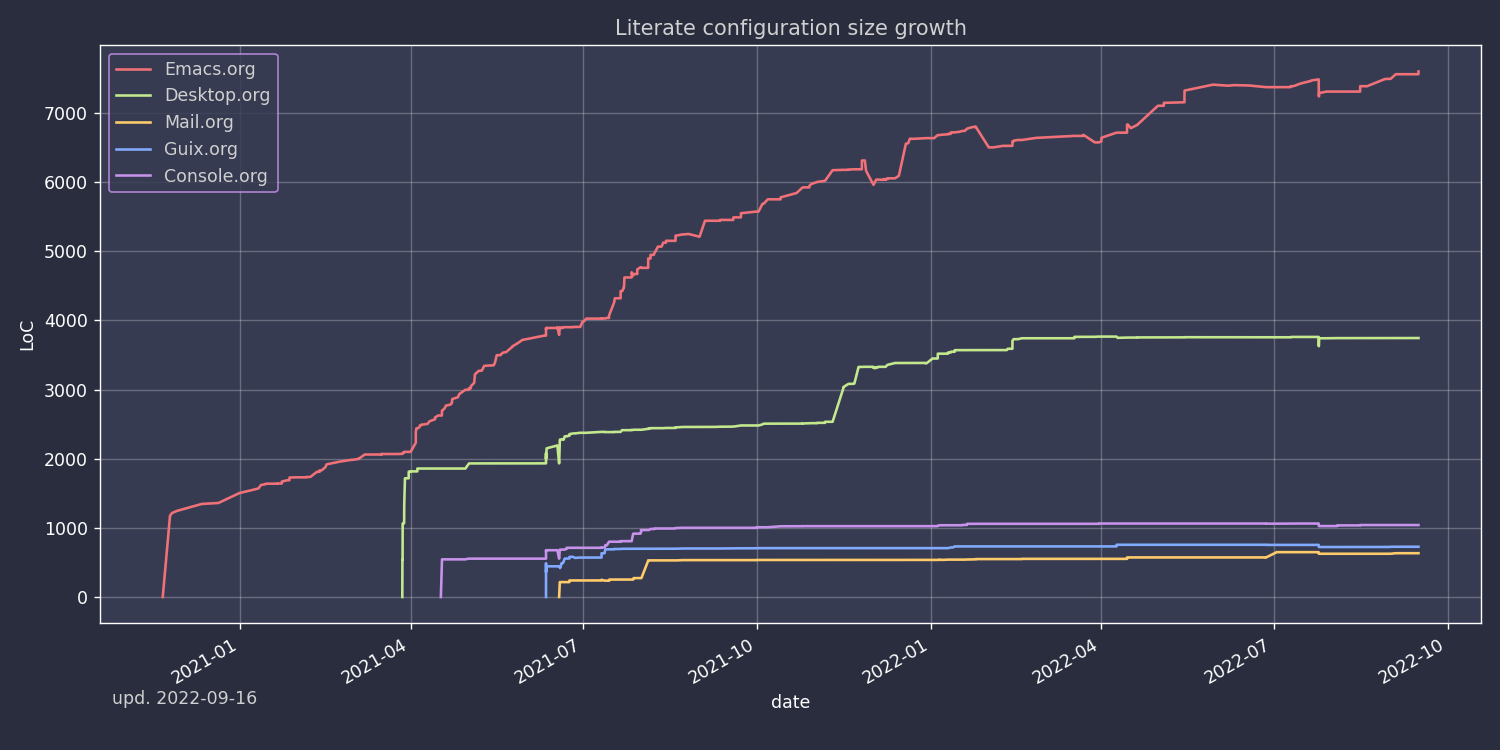
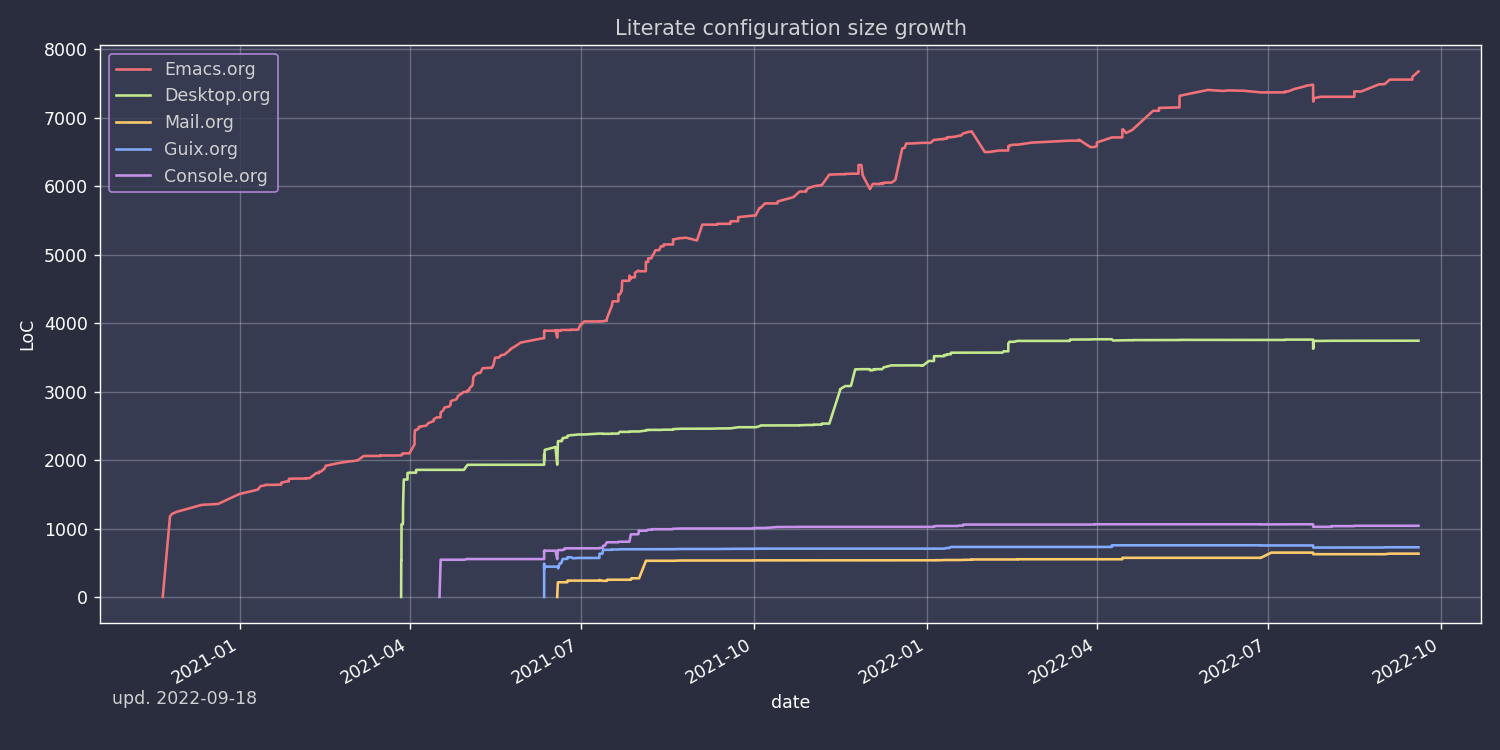
deploy: e58d4a810ca31bb510986d731bbe04232ddb9179

diff --git a/configs/emacs/index.html b/configs/emacs/index.html
@@ -3509,7 +3509,7 @@ Emacs is also particularly good at writing Lisp code, e.g. Clojure, Common Lisp,
 </span></span><span style="display:flex;"><span>	    <span style="color:#666">,@</span><span style="color:#19177c">project-files</span>))
 </span></span><span style="display:flex;"><span>    (<span style="color:#008000">setq</span> <span style="color:#19177c">org-refile-targets</span>
 </span></span><span style="display:flex;"><span>	  <span style="color:#666">`</span>(<span style="color:#666">,@</span>(<span style="color:#00f">mapcar</span>
-</span></span><span style="display:flex;"><span>	       (<span style="color:#008000">lambda</span> (<span style="color:#19177c">f</span>) <span style="color:#666">`</span>(<span style="color:#666">,</span><span style="color:#19177c">f</span> <span style="color:#666">.</span> (<span style="color:#008000">:level</span> <span style="color:#666">.</span> <span style="color:#666">1</span>)))
+</span></span><span style="display:flex;"><span>	       (<span style="color:#008000">lambda</span> (<span style="color:#19177c">f</span>) <span style="color:#666">`</span>(<span style="color:#666">,</span><span style="color:#19177c">f</span> <span style="color:#666">.</span> (<span style="color:#008000">:level</span> <span style="color:#666">.</span> <span style="color:#666">2</span>)))
 </span></span><span style="display:flex;"><span>	       <span style="color:#19177c">project-files</span>)
 </span></span><span style="display:flex;"><span>	    <span style="color:#666">,@</span>(<span style="color:#00f">mapcar</span>
 </span></span><span style="display:flex;"><span>	       (<span style="color:#008000">lambda</span> (<span style="color:#19177c">f</span>) <span style="color:#666">`</span>(<span style="color:#666">,</span><span style="color:#19177c">f</span> <span style="color:#666">.</span> (<span style="color:#008000">:tag</span> <span style="color:#666">.</span> <span style="color:#ba2121">&#34;refile&#34;</span>)))
@@ -3612,7 +3612,7 @@ Emacs is also particularly good at writing Lisp code, e.g. Clojure, Common Lisp,
 </span></span><span style="display:flex;"><span>	(<span style="color:#00f">format-time-string</span> <span style="color:#ba2121">&#34;%Y-%m-%d&#34;</span> <span style="color:#19177c">scheduled</span>)
 </span></span><span style="display:flex;"><span>      <span style="color:#ba2121">&#34;&#34;</span>)))
 </span></span><span style="display:flex;"><span>
-</span></span><span style="display:flex;"><span>(<span style="color:#008000">setq</span> <span style="color:#19177c">org-agenda-hide-tags-regexp</span> (<span style="color:#008000">rx</span> (<span style="color:#008000">or</span> <span style="color:#ba2121">&#34;org&#34;</span> <span style="color:#ba2121">&#34;log&#34;</span> <span style="color:#ba2121">&#34;log_here&#34;</span>)))
+</span></span><span style="display:flex;"><span>(<span style="color:#008000">setq</span> <span style="color:#19177c">org-agenda-hide-tags-regexp</span> (<span style="color:#008000">rx</span> (<span style="color:#008000">or</span> <span style="color:#ba2121">&#34;org&#34;</span> <span style="color:#ba2121">&#34;log&#34;</span> <span style="color:#ba2121">&#34;log_here&#34;</span> <span style="color:#ba2121">&#34;refile&#34;</span>)))
 </span></span><span style="display:flex;"><span>
 </span></span><span style="display:flex;"><span>(<span style="color:#008000">setq</span> <span style="color:#19177c">org-agenda-custom-commands</span>
 </span></span><span style="display:flex;"><span>      <span style="color:#666">`</span>((<span style="color:#ba2121">&#34;p&#34;</span> <span style="color:#ba2121">&#34;My outline&#34;</span>
@@ -5698,16 +5698,31 @@ Emacs is also particularly good at writing Lisp code, e.g. Clojure, Common Lisp,
 </span></span><span style="display:flex;"><span>  (<span style="color:#19177c">subed-mpv--play</span> <span style="color:#19177c">subed-mpv-video-file</span>))
 </span></span></code></pre></div><p>Keep in mind that this function has to be launched inside the buffer opened by the <code>my/elfeed-youtube-subtitles</code> function.</p>
 <h4 id="podcast-transcripts">Podcast transcripts</h4>
-<p>Occasionally I want to have a text version of a podcast, for instance to take some notes.</p>
-<p>In order do do that, I&rsquo;ve made a <a href="https://github.com/SqrtMinusOne/podcasts-vosk">small script</a> that uses the <a href="https://alphacephei.com/vosk/">Vosk speech recognition toolkit</a> to extract subtitles from an audio file. Here&rsquo;s a function to invoke that script.</p>
+<p>In my experience, finding something in a podcast is particularly troublesome. For example, occasionally I want to refer to some line in the podcast to make an <a href="https://github.com/org-roam/org-roam">org-roam</a> node, e.g. I want to check that I got that part right.</p>
+<p>And I have no reasonable way to get there because audio files in themselves don&rsquo;t allow for <a href="https://en.wikipedia.org/wiki/Random_access">random access</a>, i.e. there are no &ldquo;landmarks&rdquo; that point to this or that portion of the file. At least if nothing like a transcript is available.</p>
+<p>For obvious reasons, podcasts rarely ship with transcripts. So in this post, I&rsquo;ll be using a speech recognition engine to make up for that. A generated transcript is not quite as good as a manually written one, but for the purpose of finding a fragment of a known podcast, it works well enough.</p>
+<p>The general idea is to get the podcast info from <a href="https://github.com/skeeto/elfeed">elfeed</a>, process it with <a href="https://github.com/alphacep/vosk-api">vosk-api</a> and feed it to <a href="https://github.com/sachac/subed">subed</a> to control the playback in <a href="https://mpv.io/">MPV</a>.</p>
+<h5 id="vosk-api">Vosk API</h5>
+<p>After some search, I found <a href="https://github.com/alphacep/vosk-api">Vosk API</a>, an offline speech recognition toolkit.</p>
+<p>I want to make a program that receives an audio file and outputs an <a href="https://en.wikipedia.org/wiki/SubRip">SRT</a> file. Vosk provides bindings to different languages, of which I choose Python because&hellip; reasons.</p>
+<p>So, with the help of kindly provided <a href="https://github.com/alphacep/vosk-api/tree/master/python/example">examples</a> of how to use the Python API, the resulting script is <a href="https://github.com/SqrtMinusOne/podcasts-vosk">available here</a>. Except Vosk, the script uses <a href="https://click.palletsprojects.com/en/8.1.x/">click</a> to make a simple CLI, a library aptly called <a href="https://github.com/cdown/srt">srt</a> to make srt files, and <a href="https://ffmpeg.org/">ffmpeg</a>.</p>
+<p>Another piece we need is a speech recognition model, some of which you can download <a href="https://alphacephei.com/vosk/models">on their website</a>. I chose a small English model called <code>vosk-model-small-en-us-0.15</code> because all my podcasts are in English and also because larger models are much slower.</p>
+<p>Now that we have the script and the model, we need to create a virtual environment. Somehow I couldn&rsquo;t install the <code>vosk</code> package with <a href="https://docs.conda.io/en/latest/">conda</a>, but the Guix version of Python with <code>virtualenv</code> worked just fine:</p>
+<div class="highlight"><pre tabindex="0" style=";-moz-tab-size:4;-o-tab-size:4;tab-size:4;"><code class="language-bash" data-lang="bash"><span style="display:flex;"><span>python3 -m virtualenv venv
+</span></span><span style="display:flex;"><span><span style="color:#008000">source</span> venv/bin/activate
+</span></span><span style="display:flex;"><span>pip install -r requirements.txt
+</span></span></code></pre></div><p>After which the script can be used as follows:</p>
+<div class="highlight"><pre tabindex="0" style=";-moz-tab-size:4;-o-tab-size:4;tab-size:4;"><code class="language-bash" data-lang="bash"><span style="display:flex;"><span>python main.py --file-path &lt;path-to-file&gt; --model-path ./model-small --save-path &lt;path-to-subtitles-file&gt;.srt
+</span></span></code></pre></div><h5 id="running-it-from-emacs">Running it from Emacs</h5>
+<p>The next step is to run the script from Emacs. This is rather straightforward to do with <a href="https://www.gnu.org/software/emacs/manual/html_node/elisp/Asynchronous-Processes.html">asyncronous processes</a>.</p>
 <div class="highlight"><pre tabindex="0" style=";-moz-tab-size:4;-o-tab-size:4;tab-size:4;"><code class="language-emacs-lisp" data-lang="emacs-lisp"><span style="display:flex;"><span>(<span style="color:#008000">defvar</span> <span style="color:#19177c">my/vosk-script-path</span>
 </span></span><span style="display:flex;"><span>  <span style="color:#ba2121">&#34;/home/pavel/Code/system-crafting/podcasts-vosk/&#34;</span>
 </span></span><span style="display:flex;"><span>  <span style="color:#ba2121">&#34;Path to the </span><span style="color:#19177c">`podcasts-vosk&#39;</span><span style="color:#ba2121"> script folder.&#34;</span>)
 </span></span><span style="display:flex;"><span>
 </span></span><span style="display:flex;"><span>(<span style="color:#008000">defun</span> <span style="color:#19177c">my/invoke-vosk</span> (<span style="color:#19177c">input</span> <span style="color:#19177c">output</span>)
-</span></span><span style="display:flex;"><span>  <span style="color:#ba2121">&#34;Extract subtitles from audio file.
+</span></span><span style="display:flex;"><span>  <span style="color:#ba2121">&#34;Extract subtitles from the audio file.
 </span></span></span><span style="display:flex;"><span><span style="color:#ba2121">
-</span></span></span><span style="display:flex;"><span><span style="color:#ba2121">INPUT is the audio file, OUTPUT is the part to the resulting SRT file.&#34;</span>
+</span></span></span><span style="display:flex;"><span><span style="color:#ba2121">INPUT is the audio file, OUTPUT is the path to the resulting SRT file.&#34;</span>
 </span></span><span style="display:flex;"><span>  (<span style="color:#008000">interactive</span>
 </span></span><span style="display:flex;"><span>   (<span style="color:#00f">list</span>
 </span></span><span style="display:flex;"><span>    (<span style="color:#19177c">read-file-name</span> <span style="color:#ba2121">&#34;Input file: &#34;</span> <span style="color:#800">nil</span> <span style="color:#800">nil</span> <span style="color:#800">t</span>)
@@ -5733,7 +5748,11 @@ Emacs is also particularly good at writing Lisp code, e.g. Clojure, Common Lisp,
 </span></span><span style="display:flex;"><span>			     (<span style="color:#00f">buffer-string</span>))))
 </span></span><span style="display:flex;"><span>		  (<span style="color:#00f">kill-buffer</span> (<span style="color:#00f">process-buffer</span> <span style="color:#19177c">process</span>))
 </span></span><span style="display:flex;"><span>		  (<span style="color:#d2413a;font-weight:bold">user-error</span> <span style="color:#ba2121">&#34;Error in Vosk API: %s&#34;</span> <span style="color:#19177c">err</span>)))))))))
-</span></span></code></pre></div><p>In order to use that, we need to download the file first. So here&rsquo;s a function that extracts the file name from the URL:</p>
+</span></span></code></pre></div><p>If run interactively, the defined function prompts for paths to both files.</p>
+<p>The process sentinel sends a <a href="https://www.gnu.org/software/emacs/manual/html_node/elisp/Desktop-Notifications.html">desktop notification</a> because it&rsquo;s a bit more noticeable than <code>message</code>, and the process is expected to take some time.</p>
+<h5 id="integrating-with-elfeed">Integrating with elfeed</h5>
+<p>To actually run the function from the section above, we need to download the file in question.</p>
+<p>So first, let&rsquo;s extract the file name from the URL:</p>
 <div class="highlight"><pre tabindex="0" style=";-moz-tab-size:4;-o-tab-size:4;tab-size:4;"><code class="language-emacs-lisp" data-lang="emacs-lisp"><span style="display:flex;"><span>(<span style="color:#008000">defun</span> <span style="color:#19177c">my/get-file-name-from-url</span> (<span style="color:#19177c">url</span>)
 </span></span><span style="display:flex;"><span>  <span style="color:#ba2121">&#34;Extract file name from the URL.&#34;</span>
 </span></span><span style="display:flex;"><span>  (<span style="color:#00f">string-match</span> (<span style="color:#008000">rx</span> <span style="color:#ba2121">&#34;/&#34;</span> (<span style="color:#00f">+</span> (<span style="color:#19177c">not</span> <span style="color:#ba2121">&#34;/&#34;</span>)) (<span style="color:#ba2121">? </span><span style="color:#ba2121">&#34;/&#34;</span>) <span style="color:#19177c">eos</span>) <span style="color:#19177c">url</span>)
@@ -5746,7 +5765,8 @@ Emacs is also particularly good at writing Lisp code, e.g. Clojure, Common Lisp,
 </span></span><span style="display:flex;"><span>    (<span style="color:#008000">when</span> (<span style="color:#19177c">string-match-p</span> (<span style="color:#008000">rx</span> <span style="color:#ba2121">&#34;/&#34;</span> <span style="color:#19177c">eos</span>) <span style="color:#19177c">match</span>)
 </span></span><span style="display:flex;"><span>      (<span style="color:#008000">setq</span> <span style="color:#19177c">match</span> (<span style="color:#00f">substring</span> <span style="color:#19177c">match</span> <span style="color:#666">0</span> (<span style="color:#00f">1-</span> (<span style="color:#00f">length</span> <span style="color:#19177c">match</span>)))))
 </span></span><span style="display:flex;"><span>    <span style="color:#19177c">match</span>))
-</span></span></code></pre></div><p>Now can use that to save the file and invoke the <code>my/invoke-vosk</code> function.</p>
+</span></span></code></pre></div><p>I use a library called <a href="https://github.com/tkf/emacs-request">request.el</a> to download files elsewhere, so I&rsquo;ll re-use it here. You can just as well invoke <code>curl</code> or <code>wget</code> via a asynchronous process.</p>
+<p>This function downloads the file to a non-temporary folder, which is <code>~/.elfeed/podcast-files/</code> if you didn&rsquo;t move the elfeed database. That is so because a permanently downloaded file works better for the next section.</p>
 <div class="highlight"><pre tabindex="0" style=";-moz-tab-size:4;-o-tab-size:4;tab-size:4;"><code class="language-emacs-lisp" data-lang="emacs-lisp"><span style="display:flex;"><span>(<span style="color:#008000">with-eval-after-load</span> <span style="color:#19177c">&#39;elfeed</span>
 </span></span><span style="display:flex;"><span>  (<span style="color:#008000">defvar</span> <span style="color:#19177c">my/elfeed-vosk-podcast-files-directory</span>
 </span></span><span style="display:flex;"><span>    (<span style="color:#00f">concat</span> <span style="color:#19177c">elfeed-db-directory</span> <span style="color:#ba2121">&#34;/podcast-files/&#34;</span>)))
@@ -5758,6 +5778,8 @@ Emacs is also particularly good at writing Lisp code, e.g. Clojure, Common Lisp,
 </span></span><span style="display:flex;"><span>		      <span style="color:#19177c">my/elfeed-vosk-podcast-files-directory</span>
 </span></span><span style="display:flex;"><span>		      <span style="color:#19177c">file-name</span>))))
 </span></span><span style="display:flex;"><span>    (<span style="color:#00f">message</span> <span style="color:#ba2121">&#34;Download started&#34;</span>)
+</span></span><span style="display:flex;"><span>    (<span style="color:#008000">unless</span> (<span style="color:#00f">file-exists-p</span> <span style="color:#19177c">my/elfeed-vosk-podcast-files-directory</span>)
+</span></span><span style="display:flex;"><span>      (<span style="color:#19177c">mkdir</span> <span style="color:#19177c">my/elfeed-vosk-podcast-files-directory</span>))
 </span></span><span style="display:flex;"><span>    (<span style="color:#19177c">request</span> <span style="color:#19177c">url</span>
 </span></span><span style="display:flex;"><span>      <span style="color:#008000">:type</span> <span style="color:#ba2121">&#34;GET&#34;</span>
 </span></span><span style="display:flex;"><span>      <span style="color:#008000">:encoding</span> <span style="color:#19177c">&#39;binary</span>
@@ -5774,9 +5796,10 @@ Emacs is also particularly good at writing Lisp code, e.g. Clojure, Common Lisp,
 </span></span><span style="display:flex;"><span>      (<span style="color:#008000">cl-function</span>
 </span></span><span style="display:flex;"><span>       (<span style="color:#008000">lambda</span> (<span style="color:#008000">&amp;key</span> <span style="color:#19177c">error-thrown</span> <span style="color:#008000">&amp;allow-other-keys</span>)
 </span></span><span style="display:flex;"><span>	 (<span style="color:#00f">message</span> <span style="color:#ba2121">&#34;Error!: %S&#34;</span> <span style="color:#19177c">error-thrown</span>))))))
-</span></span></code></pre></div><p>And the final entrypoint, that opens up the SRT file is it&rsquo;s available, and queues the download if it&rsquo;s not.</p>
+</span></span></code></pre></div><p>I also experimented with a bunch of options to write binary data in Emacs, of which the way with <code>write-region</code> (as implemented in <a href="https://github.com/rejeep/f.el">f.el</a>) seems to be the fastest. <a href="https://emacs.stackexchange.com/questions/59449/how-do-i-save-raw-bytes-into-a-file">This thread on StackExchange</a> suggests that it may screw some bytes towards the end, but whether or not this is the case, mp3 files survive the procedure. The proposed solution with <code>seq-doseq</code> takes at least a few seconds.</p>
+<p>Finally, we need a function to show the transcript if it exists or invoke <code>my/elfeed-vosk-get-transcript-new</code> if it doesn&rsquo;t. And this is the function that we&rsquo;ll call from an <code>elfeed-entry</code> buffer.</p>
 <div class="highlight"><pre tabindex="0" style=";-moz-tab-size:4;-o-tab-size:4;tab-size:4;"><code class="language-emacs-lisp" data-lang="emacs-lisp"><span style="display:flex;"><span>(<span style="color:#008000">defun</span> <span style="color:#19177c">my/elfeed-vosk-get-transcript</span> (<span style="color:#19177c">entry</span>)
-</span></span><span style="display:flex;"><span>  <span style="color:#ba2121">&#34;Retrieve transcript from the current elfeed ENTRY.&#34;</span>
+</span></span><span style="display:flex;"><span>  <span style="color:#ba2121">&#34;Retrieve transcript for the enclosure of the current elfeed ENTRY.&#34;</span>
 </span></span><span style="display:flex;"><span>  (<span style="color:#008000">interactive</span> (<span style="color:#00f">list</span> <span style="color:#19177c">elfeed-show-entry</span>))
 </span></span><span style="display:flex;"><span>  (<span style="color:#008000">let</span> ((<span style="color:#19177c">enclosure</span> (<span style="color:#19177c">caar</span> (<span style="color:#19177c">elfeed-entry-enclosures</span> <span style="color:#19177c">entry</span>))))
 </span></span><span style="display:flex;"><span>    (<span style="color:#008000">unless</span> <span style="color:#19177c">enclosure</span>
@@ -5789,7 +5812,14 @@ Emacs is also particularly good at writing Lisp code, e.g. Clojure, Common Lisp,
 </span></span><span style="display:flex;"><span>	    (<span style="color:#008000">with-current-buffer</span> <span style="color:#19177c">buffer</span>
 </span></span><span style="display:flex;"><span>	      (<span style="color:#008000">setq-local</span> <span style="color:#19177c">elfeed-show-entry</span> <span style="color:#19177c">entry</span>)))
 </span></span><span style="display:flex;"><span>	(<span style="color:#19177c">my/elfeed-vosk-get-transcript-new</span> <span style="color:#19177c">enclosure</span> <span style="color:#19177c">srt-path</span>)))))
-</span></span></code></pre></div><div class="highlight"><pre tabindex="0" style=";-moz-tab-size:4;-o-tab-size:4;tab-size:4;"><code class="language-emacs-lisp" data-lang="emacs-lisp"><span style="display:flex;"><span>(<span style="color:#008000">defun</span> <span style="color:#19177c">my/elfeed-vosk-subed</span> (<span style="color:#19177c">entry</span>)
+</span></span></code></pre></div><h5 id="integrating-with-subed">Integrating with subed</h5>
+<p>Now that we&rsquo;ve produced a <code>.srt</code> file, we can use a package called <a href="https://github.com/sachac/subed">subed</a> to control the playback, like I had done in the previous post.</p>
+<p>By the way, this wasn&rsquo;t the most straightforward thing to figure out, because the MPV window doesn&rsquo;t show up for an audio file, and the player itself starts in the paused state. So I thought nothing was happening until I enabled the debug log.</p>
+<p>With that in mind, here&rsquo;s a function to launch MPV from the buffer generated by <code>my/elfeed-vosk-get-transcript</code>:</p>
+<div class="highlight"><pre tabindex="0" style=";-moz-tab-size:4;-o-tab-size:4;tab-size:4;"><code class="language-emacs-lisp" data-lang="emacs-lisp"><span style="display:flex;"><span>(<span style="color:#008000">defun</span> <span style="color:#19177c">my/elfeed-vosk-subed</span> (<span style="color:#19177c">entry</span>)
+</span></span><span style="display:flex;"><span>  <span style="color:#ba2121">&#34;Run MPV for the current Vosk-generated subtitles file.
+</span></span></span><span style="display:flex;"><span><span style="color:#ba2121">
+</span></span></span><span style="display:flex;"><span><span style="color:#ba2121">ENTRY is an instance of </span><span style="color:#19177c">`elfeed-entry&#39;</span><span style="color:#ba2121">.&#34;</span>
 </span></span><span style="display:flex;"><span>  (<span style="color:#008000">interactive</span> (<span style="color:#00f">list</span> <span style="color:#19177c">elfeed-show-entry</span>))
 </span></span><span style="display:flex;"><span>  (<span style="color:#008000">unless</span> <span style="color:#19177c">entry</span>
 </span></span><span style="display:flex;"><span>    (<span style="color:#d2413a;font-weight:bold">user-error</span> <span style="color:#ba2121">&#34;No entry!&#34;</span>))
@@ -5801,7 +5831,15 @@ Emacs is also particularly good at writing Lisp code, e.g. Clojure, Common Lisp,
 </span></span><span style="display:flex;"><span>		       (<span style="color:#19177c">my/get-file-name-from-url</span>
 </span></span><span style="display:flex;"><span>			(<span style="color:#19177c">caar</span> (<span style="color:#19177c">elfeed-entry-enclosures</span> <span style="color:#19177c">entry</span>))))))
 </span></span><span style="display:flex;"><span>  (<span style="color:#19177c">subed-mpv--play</span> <span style="color:#19177c">subed-mpv-video-file</span>))
-</span></span></code></pre></div><h3 id="internet-and-multimedia">Internet &amp; Multimedia</h3>
+</span></span></code></pre></div><p>After running <code>M-x my/elfeed-vosk-subed</code>, run <code>M-x subed-toggle-loop-over-current-subtitle</code> (<code>C-c C-l</code>), because somehow it&rsquo;s turned on by default, and <code>M-x subed-toggle-pause-while-typing</code> (<code>C-c C-p</code>), because sometimes this made my instance of MPV lag.</p>
+<p>After that, <code>M-x subed-mpv-toggle-pause</code> should start the playback, which you can control by moving the cursor in the buffer.</p>
+<p>You can also run <code>M-x subed-toggle-sync-point-to-player</code> (<code>C-c .</code>) to toggle syncing the point in the buffer to the currently played subtitle (this automatically gets disabled when you switch buffers).</p>
+<p>Running <code>M-x subed-toggle-sync-player-to-point</code> (<code>C-c ,</code>) does the opposite, i.e. sets the player position to the subtitle under point. These two functions are useful since the MPV window controls aren&rsquo;t available.</p>
+<h5 id="some-observations">Some observations</h5>
+<p>So, the functions above work for my purposes.</p>
+<p>I think it should be possible to get transcripts of better quality by using a better speech recognition model, adding a speaker detection model and a model to restore case &amp; punctuation. But it seems to be harder to implement, and this would take more time and resources. On my PC, the smallest Vosk model runs maybe 10 times faster than the playback time, which is still a few minutes for an hour-long podcast. Waiting longer is probably not worth it.</p>
+<p>Also, technically MPV can stream files without downloading them, and it&rsquo;s even possible to feed stream data into Vosk. But MPV isn&rsquo;t particularly good at seeking in streamed files, at least not with my Internet connection.</p>
+<h3 id="internet-and-multimedia">Internet &amp; Multimedia</h3>
 <h4 id="notmuch">Notmuch</h4>
 <p>My notmuch config now resides in <a href="/configs/mail/">Mail.org</a>.</p>
 <div class="highlight"><pre tabindex="0" style=";-moz-tab-size:4;-o-tab-size:4;tab-size:4;"><code class="language-emacs-lisp" data-lang="emacs-lisp"><span style="display:flex;"><span>(<span style="color:#008000">unless</span> (<span style="color:#008000">or</span> <span style="color:#19177c">my/is-termux</span> <span style="color:#19177c">my/remote-server</span>)
@@ -6497,7 +6535,20 @@ Emacs is also particularly good at writing Lisp code, e.g. Clojure, Common Lisp,
 </span></span><span style="display:flex;"><span>(<span style="color:#008000">use-package</span> <span style="color:#19177c">flycheck-hledger</span>
 </span></span><span style="display:flex;"><span>  <span style="color:#008000">:straight</span> <span style="color:#800">t</span>
 </span></span><span style="display:flex;"><span>  <span style="color:#008000">:after</span> (<span style="color:#19177c">hledger-mode</span>))
-</span></span></code></pre></div><h4 id="calendar">Calendar</h4>
+</span></span></code></pre></div><p>Here are some usage notes.</p>
+<p>The fastest way to enter new entiries to the journal is by running <code>hledger add</code></p>
+<p>Then, run <code>hledger bs</code> to check whether the balance sheet matches the ground truth (e.g. the bank UI).</p>
+<p>If it doesn&rsquo;t the simplest way to check for the differences is by running <code>hledger register &lt;item&gt;</code>.</p>
+<p>Here are some interesting commands to run:</p>
+<ul>
+<li><code>hledger incomestatement &lt;query&gt;</code>, where <code>&lt;query&gt;</code> is the account prefix. e.g. <code>expenses</code> or <code>revenues</code>.
+<ul>
+<li>add <code>--pivot=payee</code> to get grouping by transaction descriptions</li>
+<li>add <code>-B</code> to cast currencies</li>
+</ul>
+</li>
+</ul>
+<h4 id="calendar">Calendar</h4>
 <p>Emacs&rsquo; built-in calendar. Can even calculate sunrise and sunset times.</p>
 <div class="highlight"><pre tabindex="0" style=";-moz-tab-size:4;-o-tab-size:4;tab-size:4;"><code class="language-emacs-lisp" data-lang="emacs-lisp"><span style="display:flex;"><span>(<span style="color:#008000">setq</span> <span style="color:#19177c">calendar-date-style</span> <span style="color:#19177c">&#39;iso</span>) <span style="color:#408080;font-style:italic">;; YYYY/mm/dd</span>
 </span></span><span style="display:flex;"><span>(<span style="color:#008000">setq</span> <span style="color:#19177c">calendar-week-start-day</span> <span style="color:#666">1</span>)
